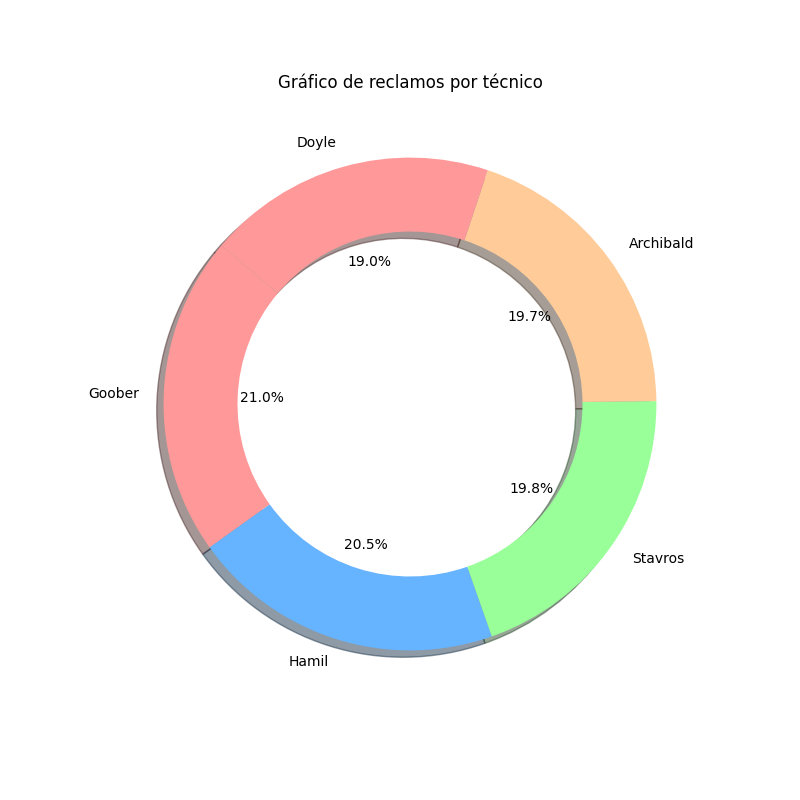
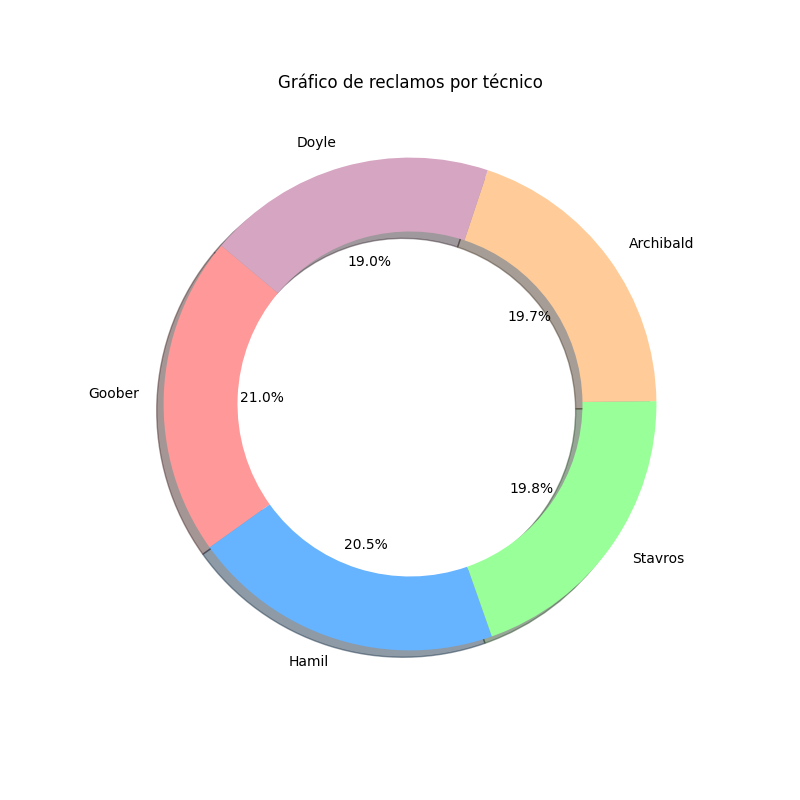
Correcciones final

Changed region(s): [[0.2812, 0.1875, 0.625, 0.375]]

diff --git a/graph_2.py b/graph_2.py
@@ -23,7 +23,7 @@ plt.pie(
     sizes,                             
     labels=labels,                    
     autopct='%1.1f%%',                 
-    colors=['#ff9999', '#66b3ff', '#99ff99', '#ffcc99'], 
+    colors=['#ff9999', '#66b3ff', '#99ff99', '#ffcc99', '#d6a5c1'], 
     explode=[0] * len(df),            
     shadow=True,                      
     startangle=140,                    

diff --git a/graph.py b/graph.py
@@ -21,7 +21,7 @@ plt.bar(df['Nombre_edif'], df['cantidad_reclamos'], color='skyblue', edgecolor='
 plt.xlabel('Nombre_edif')
 plt.ylabel('cantidad_reclamos')
 plt.title('Gráfico de reclamos totales')
-plt.xticks(rotation=90)
+plt.xticks(rotation=70)
 plt.tight_layout()
 
 plt.savefig('graph_top10.png')

diff --git a/README.md b/README.md
@@ -25,7 +25,7 @@ Alumno: Ferrand Nicolás
 - En la carpeta 'Datos' se encuentran las tablas con extensión 'CSV'.
 
 ## Vistas
-- reclamos_por_tec: ordena el listado de reclamos según el técnico encargado.
+- reclamos_por_tec: muestra la cantidad de reclamos atendidos por técnico encargado.
 - edificios_ordenados: ordena el listado de edificios alfabéticamente.
 - elevadores_Mitsu: muestra del listado de elevadores solo aquellos de marca Mitsubishi y ordenados por ID.
 - reparaciones_urgencia: muestra el listado de reparaciones ordenado por el plazo de finalización desde la más urgente.
